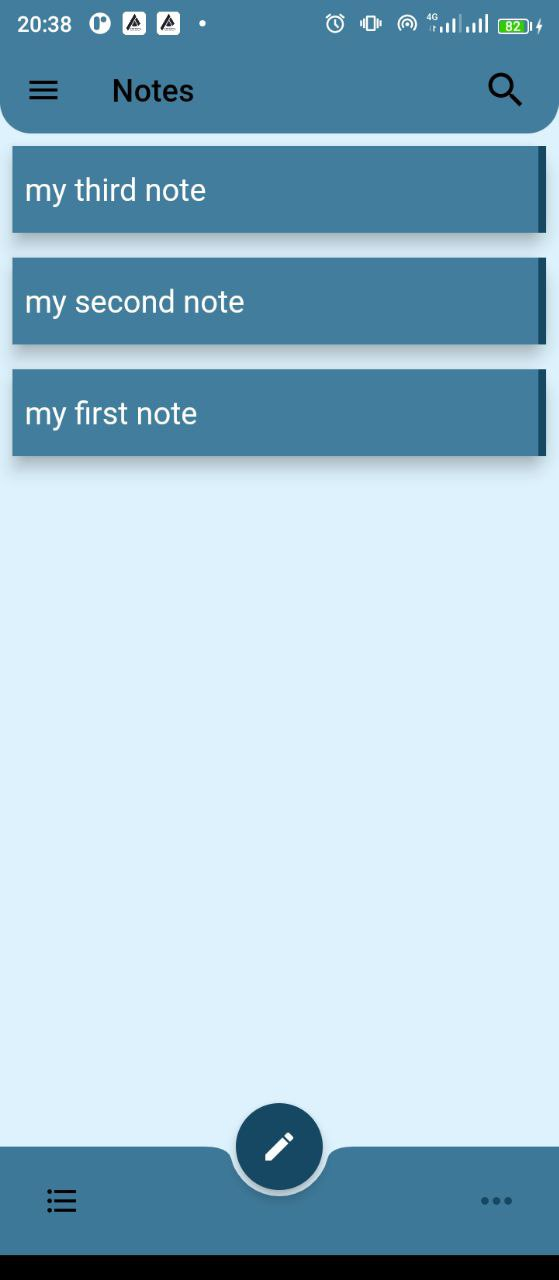
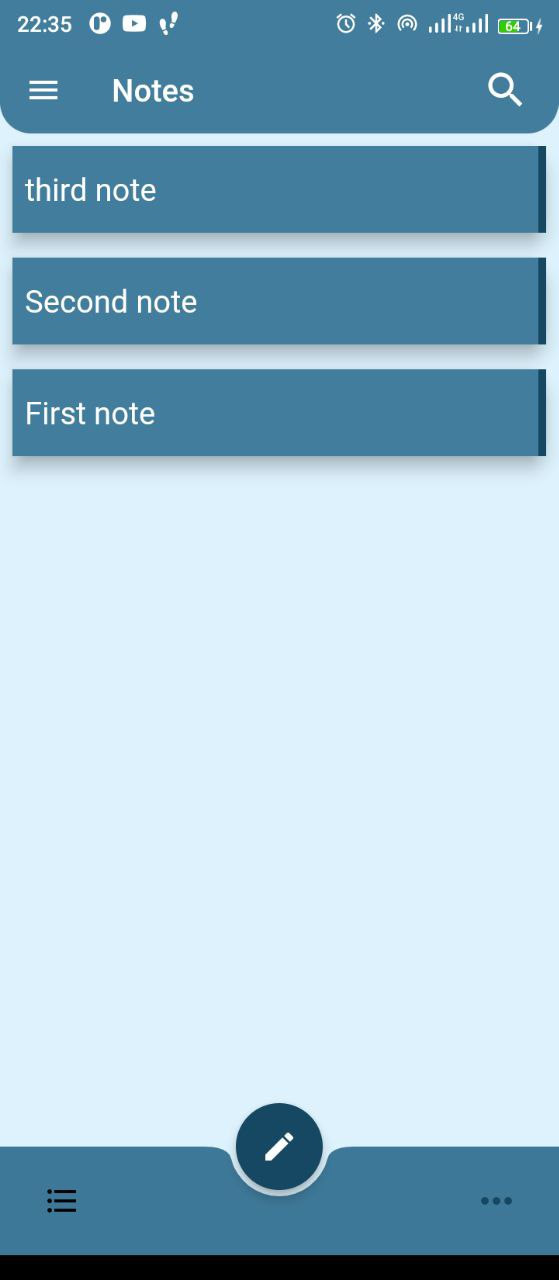
Update readme

diff --git a/lib/presentation/features/main_notes/views/app_bar.dart b/lib/presentation/features/main_notes/views/app_bar.dart
@@ -45,7 +45,15 @@ class _KappBarState extends State<KappBar> {
         } else {
           return AppBar(
             backgroundColor: theme.secondary,
-            title: const Text('Notes'),
+            leading: DrawerButton(
+              onPressed: () => Scaffold.of(context).openDrawer(),
+              style: const ButtonStyle(
+                  iconColor: MaterialStatePropertyAll(Colors.white)),
+            ),
+            title: const Text(
+              'Notes',
+              style: TextStyle(color: Colors.white),
+            ),
             shape: const RoundedRectangleBorder(
                 borderRadius: BorderRadius.only(
                     bottomLeft: Radius.circular(20),
@@ -53,7 +61,11 @@ class _KappBarState extends State<KappBar> {
             actions: [
               IconButton(
                 onPressed: () {},
-                icon: const Icon(Icons.search, size: 30),
+                icon: const Icon(
+                  Icons.search,
+                  size: 30,
+                  color: Colors.white,
+                ),
               ),
               const SizedBox(width: 10),
             ],

diff --git a/lib/presentation/features/todos/pages/todo_page.dart b/lib/presentation/features/todos/pages/todo_page.dart
@@ -36,9 +36,9 @@ class _TodoPageState extends State<TodoPage> {
         title: const Row(
           mainAxisSize: MainAxisSize.min,
           children: [
-            Icon(Icons.task_alt),
+            Icon(Icons.task_alt, color: Colors.white),
             SizedBox(width: 4),
-            Text('Todos'),
+            Text('Todos', style: TextStyle(color: Colors.white)),
           ],
         ),
       ),

diff --git a/README.md b/README.md
@@ -13,7 +13,7 @@ A simple notes app with extra features
 
 ### Screenshot
 
-![](./assets/screenshots/todo_section.jpg)
+| <img src="./assets/screenshots/notes_section.jpg" alt="todo section"> | <img src="./assets/screenshots/todo_section.jpg" alt="notes section"> |
 
 ### Built with
 
@@ -53,6 +53,6 @@ A simple notes app with extra features
 - Github - [JER3MIAH](https://github.com/)
 - Twitter - [@jeremiah_008](https://twitter.com/jeremiah_008)
 
-## Feedback 
+## Feedback
 
-Reach out to me at [mail](jeremiah.devv@gmail.com)
+Reach out to me at <jeremiah.devv@gmail.com>
